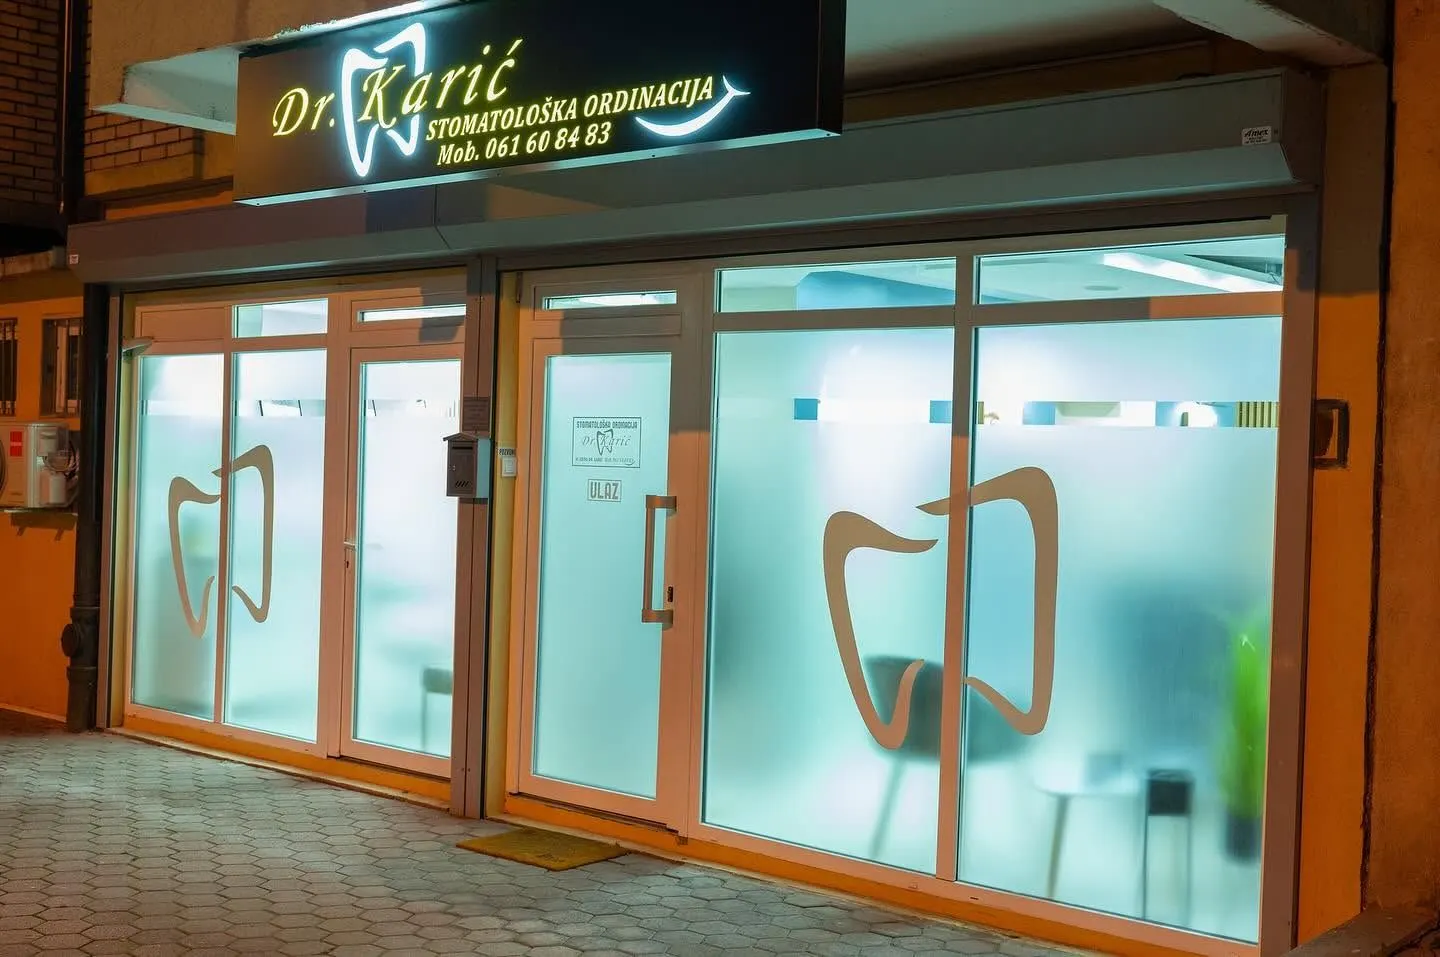
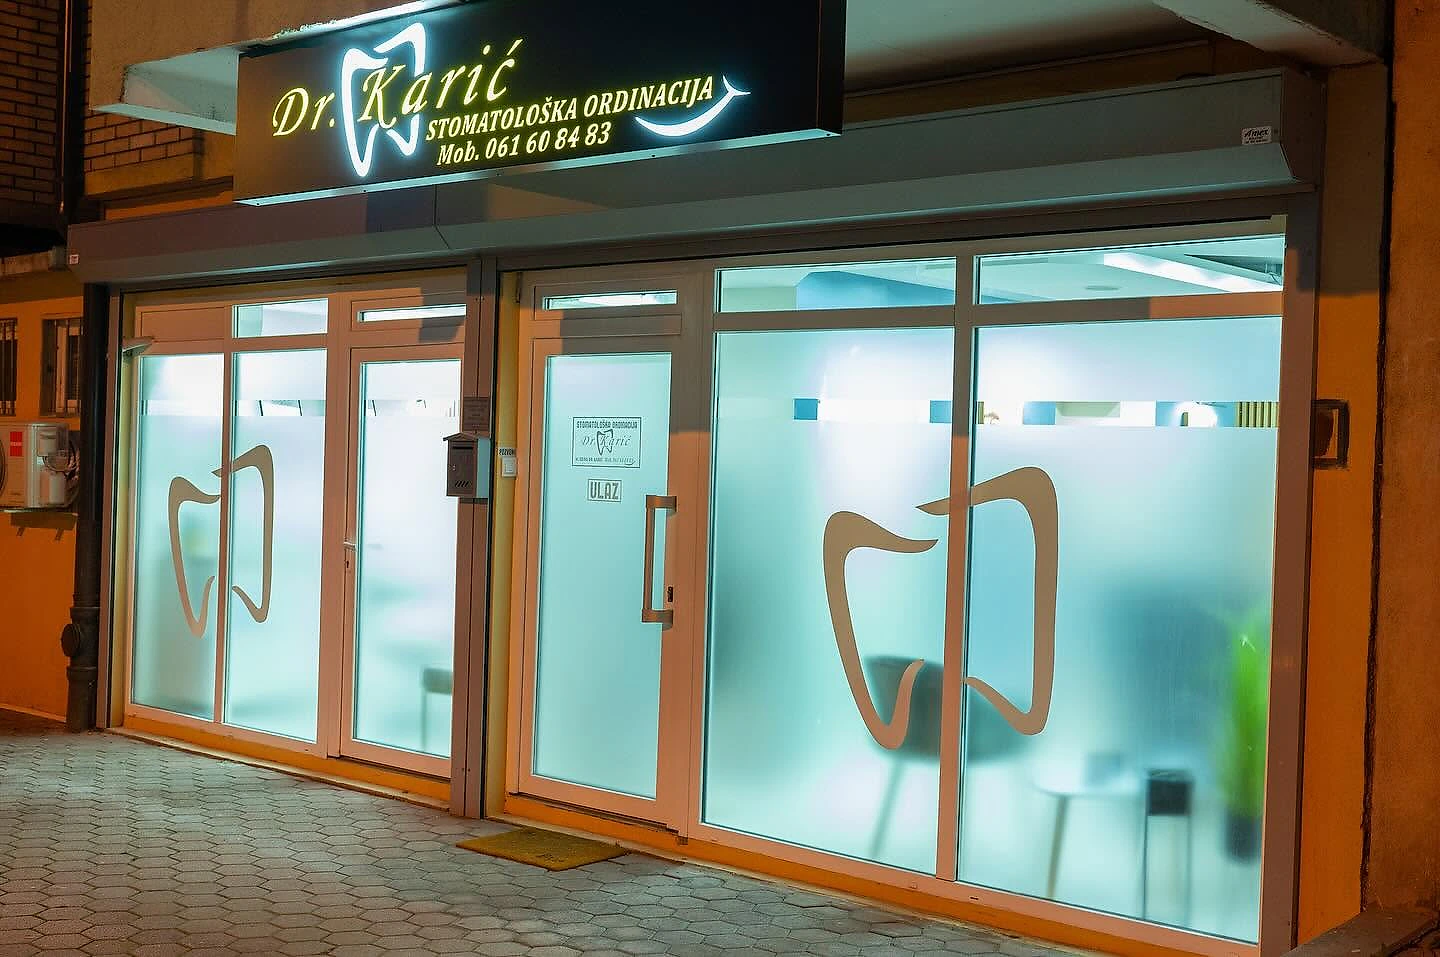
Slike: oštrije fotografije u većem kvalitetu
Sve fotografije su ponovo izvezene iz originala u punoj rezoluciji, uz blago izoštravanje ivica i bez dvostruke kompresije.
Sajt ih sada servira kao AVIF (WebP za starije preglednike) u kvalitetu 85 umjesto zadanih 75.

diff --git a/next.config.ts b/next.config.ts
@@ -5,6 +5,9 @@ import type { NextConfig } from "next";
 const nextConfig: NextConfig = {
   // Tailwind output is small; inlining it removes the render-blocking CSS request on first visit.
   experimental: { inlineCss: true },
+  // Photos are the clinic's calling card: AVIF keeps them crisp at q85 for fewer bytes than WebP.
+  // A single allowed quality means every <Image> is served at 85, no per-image prop needed.
+  images: { formats: ['image/avif', 'image/webp'], qualities: [85] },
   turbopack: {
     rules: {
       "*.css": {
